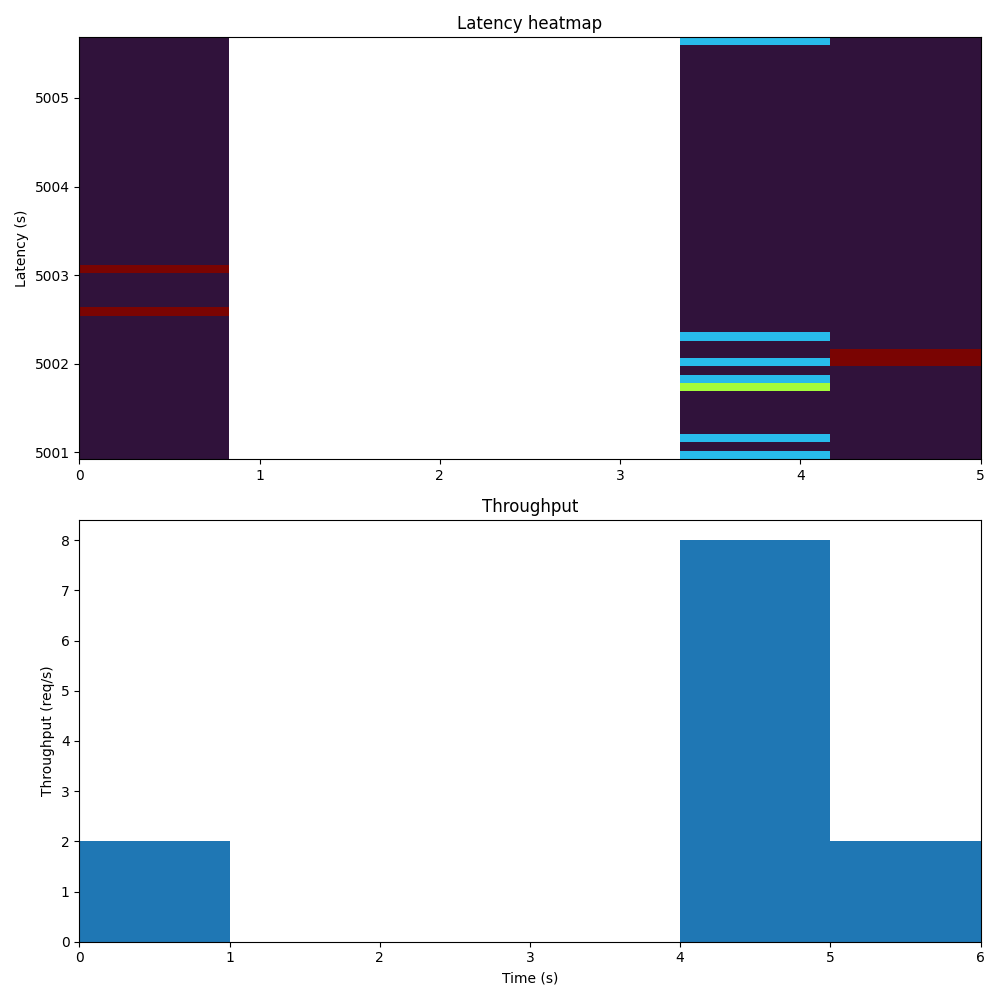
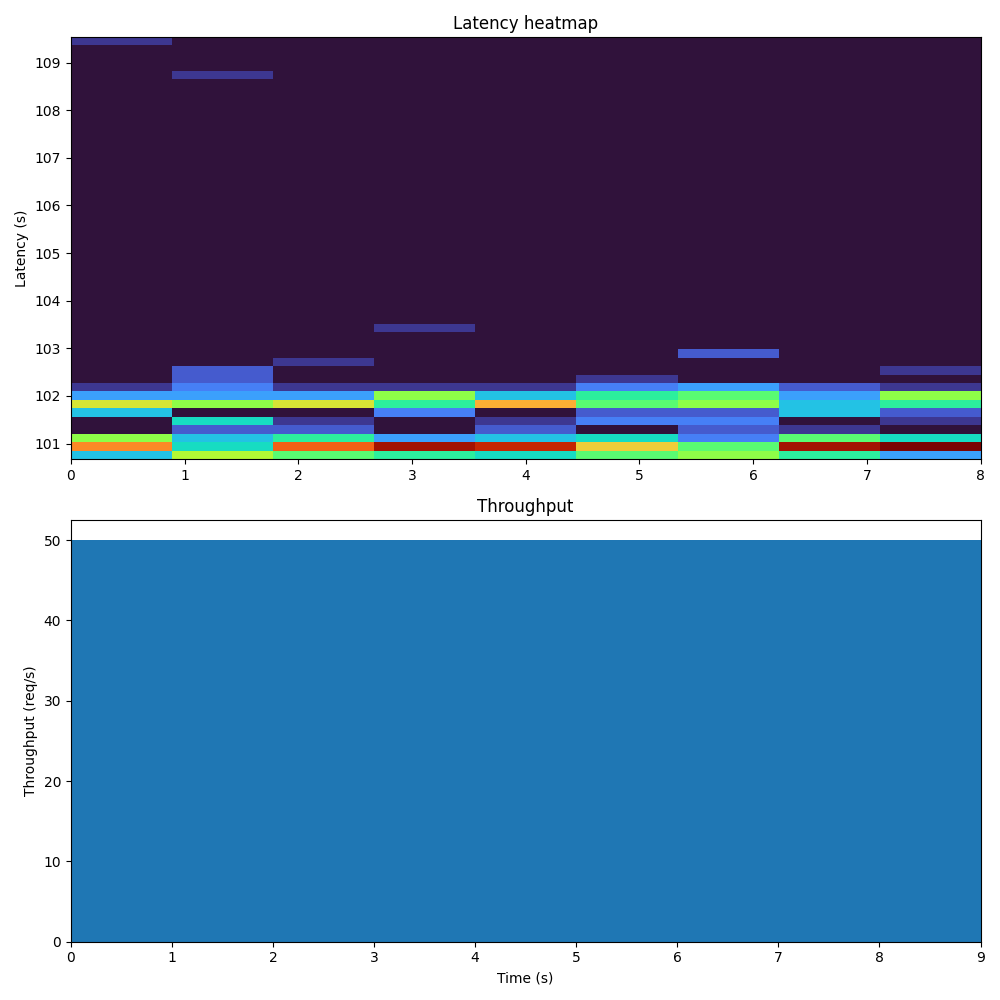
v0

diff --git a/go-app/app.go b/go-app/app.go
@@ -1,4 +1,4 @@
-package app
+package main
 
 import (
 	"fmt"
@@ -7,7 +7,7 @@ import (
 )
 
 func hello(w http.ResponseWriter, req *http.Request) {
-	time.Sleep(5000 * time.Millisecond)
+	time.Sleep(100 * time.Millisecond)
 	fmt.Fprintf(w, "hello\n")
 }
 

diff --git a/README.md b/README.md
@@ -1,4 +1,14 @@
 # Latency heatmap visualization
 
+The goal of this repo is to eventually become a testbed for different types of concurrency models and their effect on system saturation.
 
+Right now, all it does is generate a single image out of a load test.
 
+When we run the following command:
+```
+docker-compose build && docker-compose run load-test && docker-compose run visualize && docker-compose down
+```
+
+Then the following image gets generated:
+
+![load test image](img/go-app.png)
